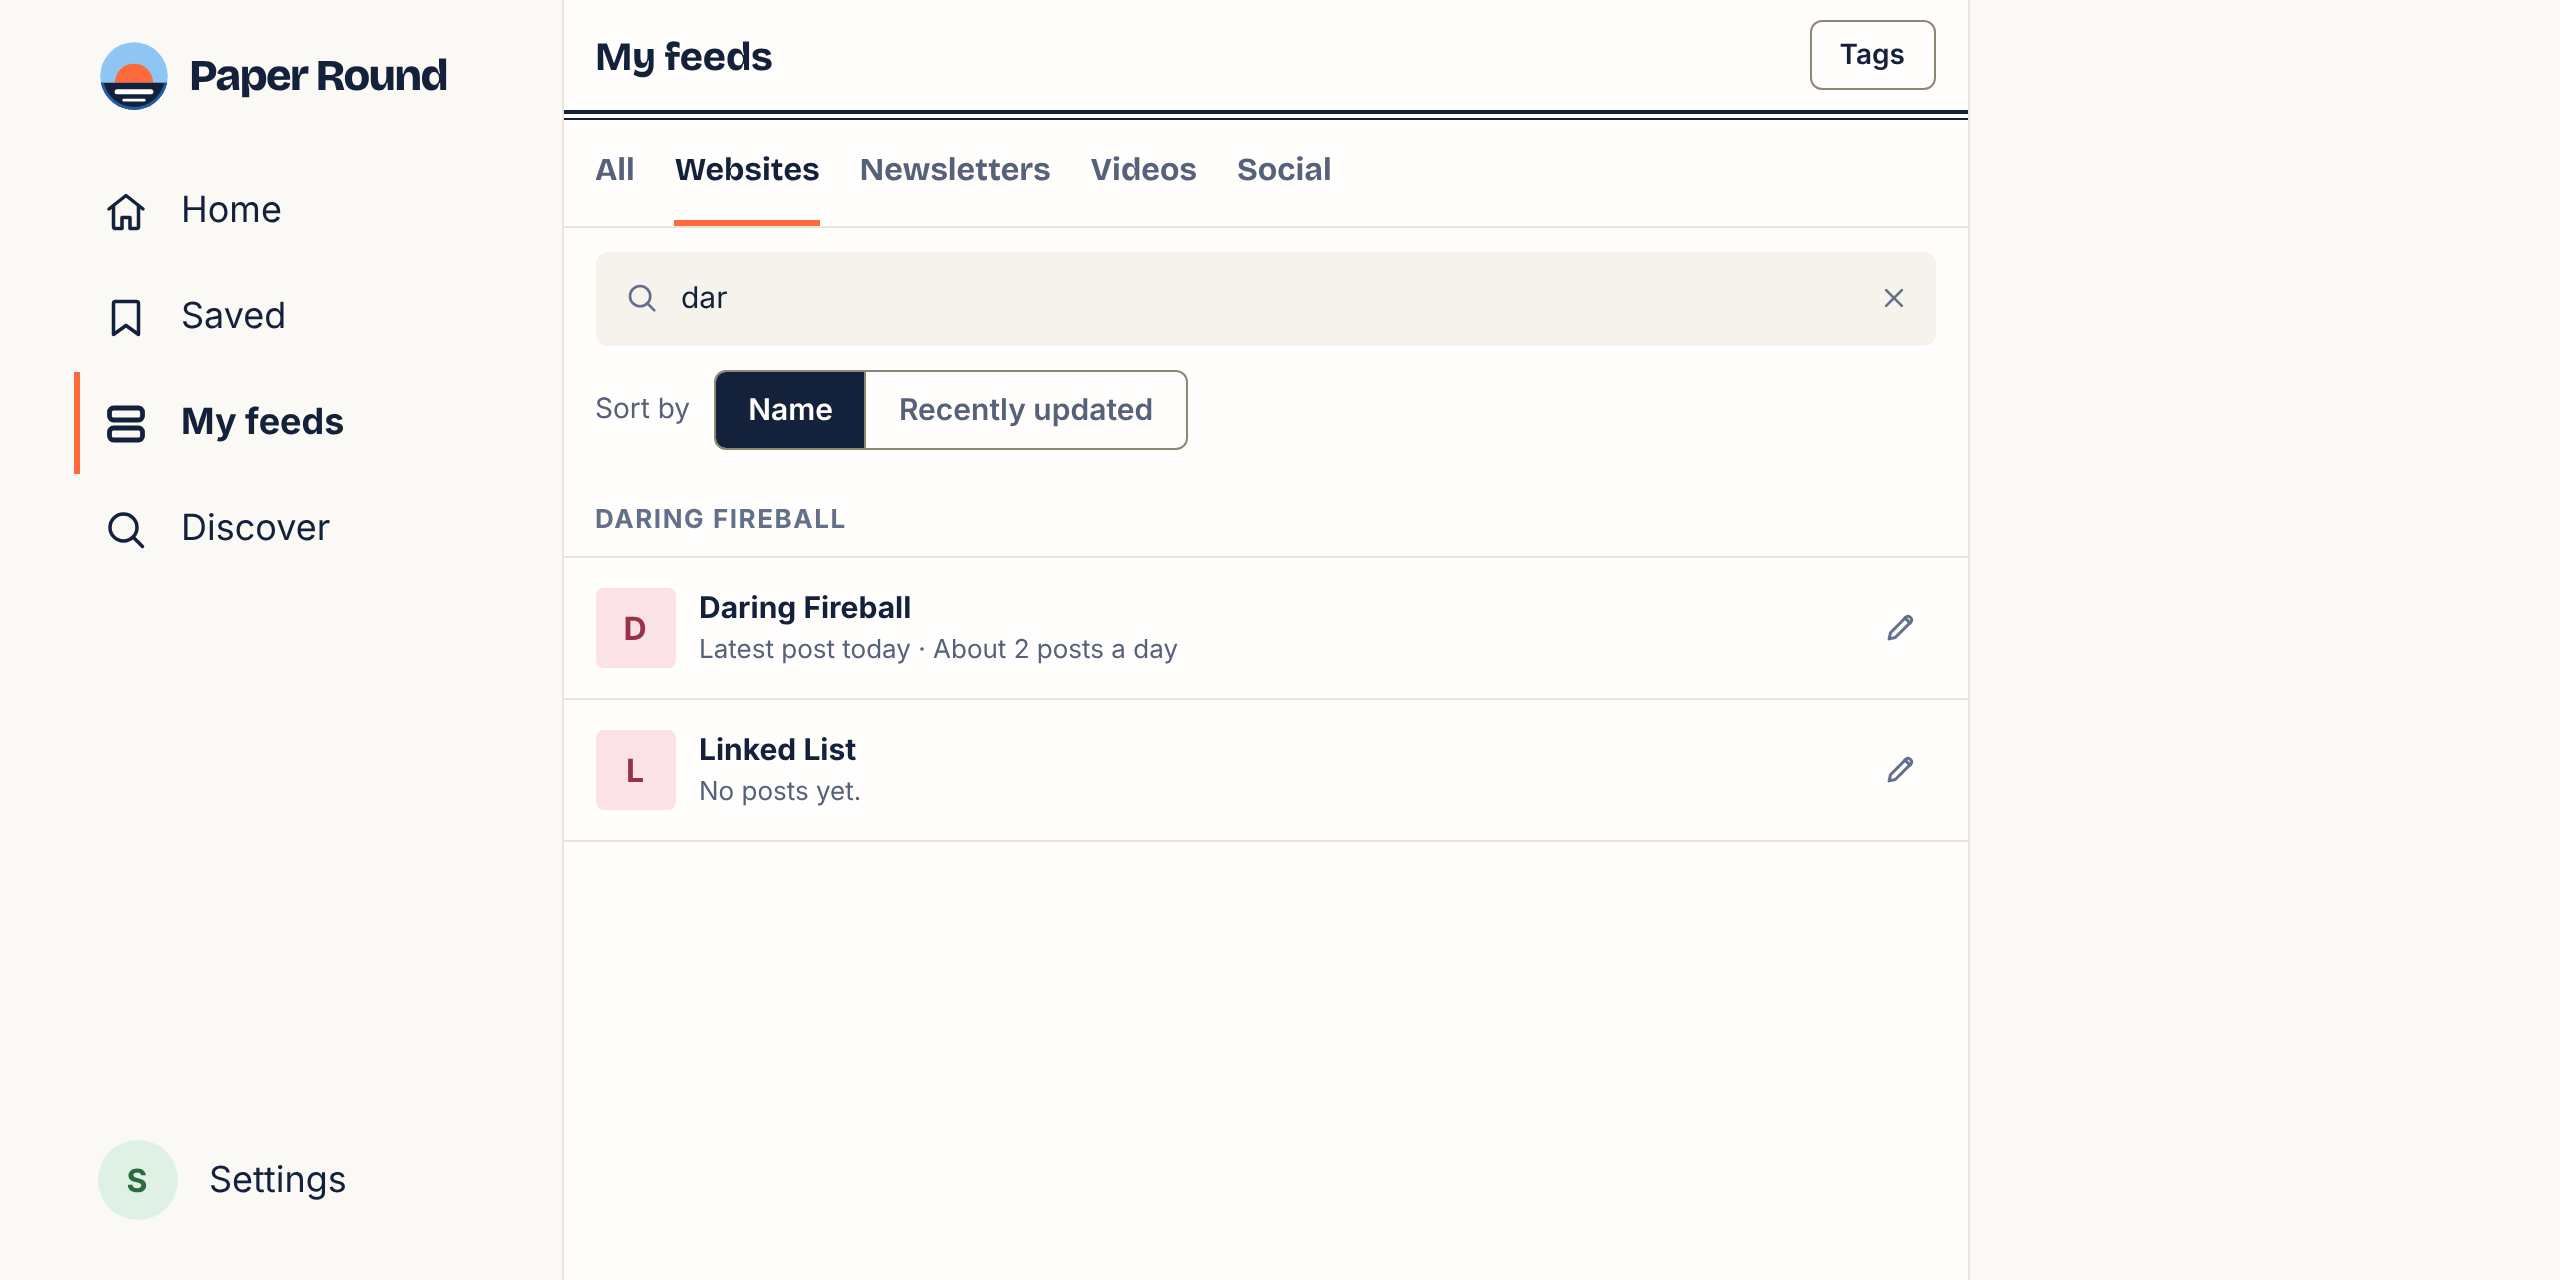
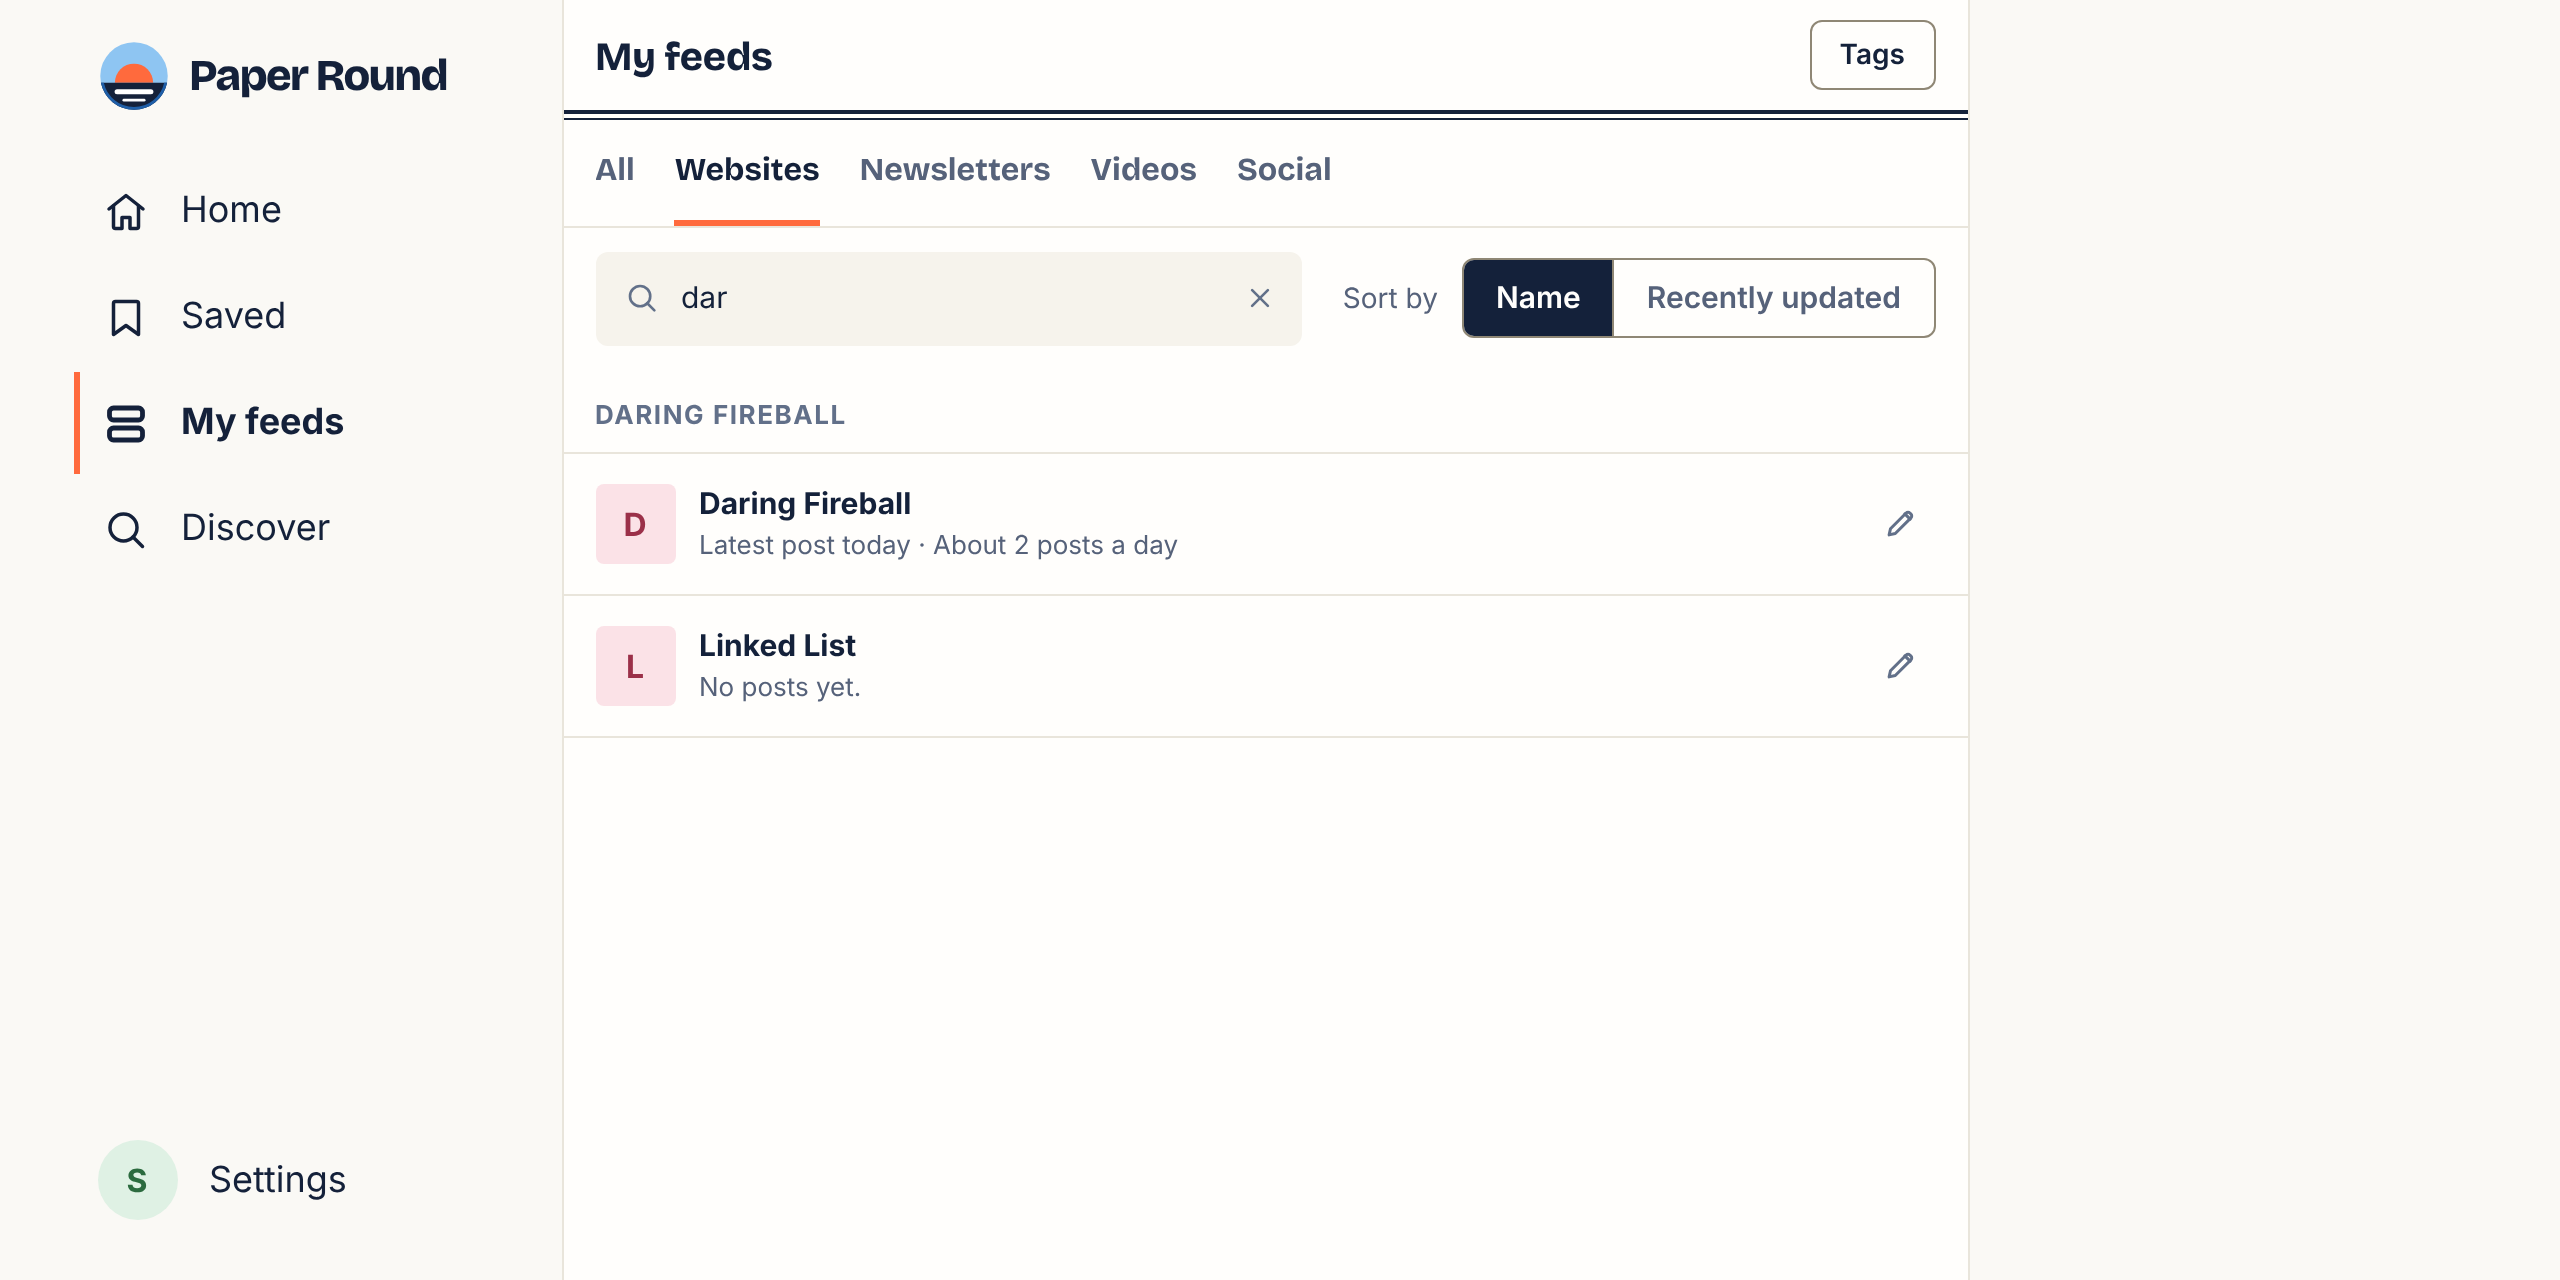
My feeds: search and sort on one line under the kinds' tabs
Tabs choose what the list shows, the search narrows it and the sort
orders it, in that order, as GitLab's lists do; on wide screens the sort
sits at the search's end, saving a row, and on phones it wraps under the
search as before. The tools' rules move to settings.css, which only the
settings pages load, so the reading pages' CSS gets smaller rather than
carrying My feeds' controls.

Changed region(s): [[0.2188, 0.2812, 0.4688, 0.6562], [0.5312, 0.1875, 0.75, 0.2812]]

diff --git a/internal/ui/templates/feeds.html b/internal/ui/templates/feeds.html
@@ -36,23 +36,26 @@
       <div class="flash">{{.}}</div>
       {{end}}
 
-      {{if .Total}}
+      {{/* The list's tools, after the kind that chooses what it lists: the
+           search that narrows it, then the sort that orders it, on one line
+           where they fit (feeds.css). */}}
       {{if .Count}}
-      <form class="page-search" role="search" method="get" action="/feeds" data-feeds-filter>
-        {{template "search-box" .Box}}
-        {{with .Kind}}<input type="hidden" name="kind" value="{{.}}" />{{end}}
-        {{with .Sort}}<input type="hidden" name="sort" value="{{.}}" />{{end}}
-      </form>
-      {{end}}
-      {{if gt .Count 1}}
-      <nav class="feeds-sort" aria-labelledby="feeds-sort-label">
-        <span id="feeds-sort-label">Sort by</span>
-        <ul class="segmented" role="list">
-          <li><a href="{{.ByName}}"{{if not .Sort}} aria-current="page"{{end}} data-sort-link>Name</a></li>
-          <li><a href="{{.ByUpdated}}"{{if .Sort}} aria-current="page"{{end}} data-sort-link>Recently updated</a></li>
-        </ul>
-      </nav>
-      {{end}}
+      <div class="feeds-tools">
+        <form class="page-search" role="search" method="get" action="/feeds" data-feeds-filter>
+          {{template "search-box" .Box}}
+          {{with .Kind}}<input type="hidden" name="kind" value="{{.}}" />{{end}}
+          {{with .Sort}}<input type="hidden" name="sort" value="{{.}}" />{{end}}
+        </form>
+        {{if gt .Count 1}}
+        <nav class="feeds-sort" aria-labelledby="feeds-sort-label">
+          <span id="feeds-sort-label">Sort by</span>
+          <ul class="segmented" role="list">
+            <li><a href="{{.ByName}}"{{if not .Sort}} aria-current="page"{{end}} data-sort-link>Name</a></li>
+            <li><a href="{{.ByUpdated}}"{{if .Sort}} aria-current="page"{{end}} data-sort-link>Recently updated</a></li>
+          </ul>
+        </nav>
+        {{end}}
+      </div>
       {{end}}
 
       {{range .Sites}}

diff --git a/web/app/styles/partials/settings.css b/web/app/styles/partials/settings.css
@@ -1,5 +1,6 @@
 /* Settings and the account pages' rows, the Reading form, tag checkboxes,
-   an import's progress and rows, and the segmented control. */
+   an import's progress and rows, the segmented control, and My feeds'
+   search and sort. */
 @layer components {
   /* A segmented control: two or three choices side by side in one
      outlined box, as a button group, a rule between them and the current
@@ -57,6 +58,34 @@
   .segmented a:focus-visible {
     outline: 2px solid var(--accent);
     outline-offset: -4px;
+  }
+
+  /* My feeds' tools: the search, then the sort at its end on one line,
+     as GitLab's lists put them, where the column leaves the search at
+     least 18rem; narrower, the sort wraps under the search. Here rather
+     than in feeds.css, which the reading pages load for site pages' feed
+     rows, since only My feeds has them. */
+  .feeds-tools {
+    display: flex;
+    flex-wrap: wrap;
+    align-items: center;
+    gap: 0.75rem 1.25rem;
+    padding: 0.75rem 1rem;
+  }
+
+  .feeds-tools .page-search {
+    flex: 1 1 18rem;
+    padding: 0;
+  }
+
+  /* The sort: its label, then the choices as a segmented control. */
+  .feeds-sort {
+    display: flex;
+    flex-wrap: wrap;
+    align-items: center;
+    gap: 0.5rem 0.75rem;
+    color: var(--text-2);
+    font-size: 0.875rem;
   }
 
   /* Settings: rows of a label, a value and, on links, a chevron. */

diff --git a/web/app/styles/partials/feeds.css b/web/app/styles/partials/feeds.css
@@ -176,18 +176,6 @@
     display: none;
   }
 
-  /* My feeds' sort under its search: its label, then the choices as a
-     segmented control (settings.css). */
-  .feeds-sort {
-    display: flex;
-    flex-wrap: wrap;
-    align-items: center;
-    gap: 0.5rem 0.75rem;
-    padding: 0 1rem 0.75rem;
-    color: var(--text-2);
-    font-size: 0.875rem;
-  }
-
   /* An icon-only control at the end of a row, like My feeds' Edit. */
   .row-icon-btn {
     display: inline-flex;
